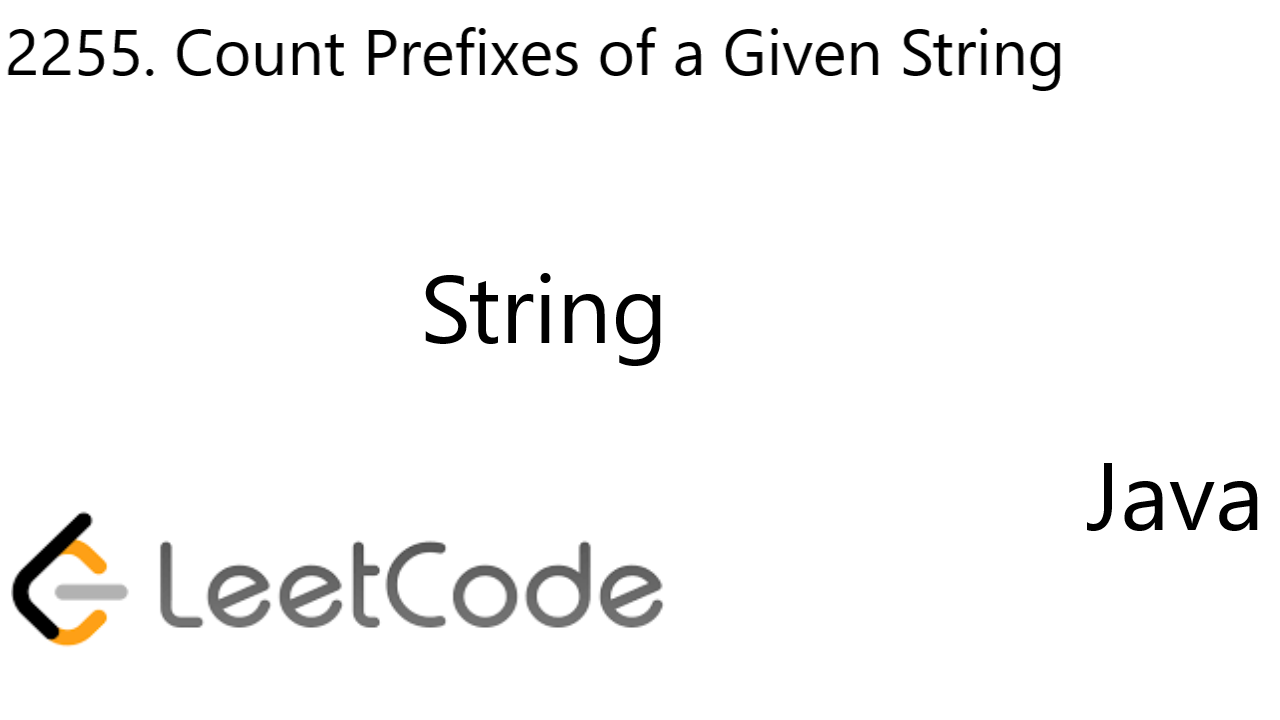
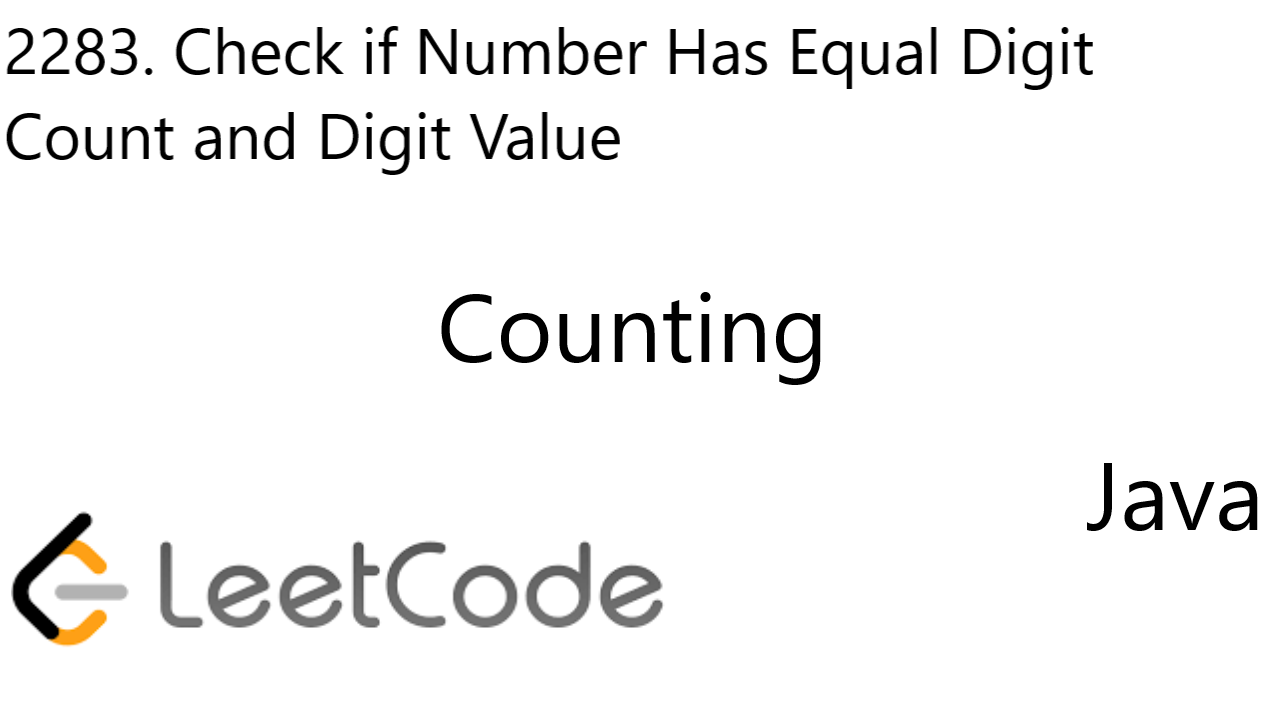
2264, 2283, 2287

Changed region(s): [[0.0, 0.0306, 0.875, 0.1222], [0.3125, 0.3667, 0.6562, 0.55], [0.0, 0.1528, 0.5, 0.2444]]

diff --git a/LeetCode/02264. Largest 3-Same-Digit Number in String/README.MD b/LeetCode/02264. Largest 3-Same-Digit Number in String/README.MD
@@ -1,0 +1,29 @@
+# String
+* Time Complexity: O(N)
+* Space Complexity: O(1)
+	* N as length of num
+```
+class Solution {
+    public String largestGoodInteger(String num) {
+        Character c = null;
+        for(int i = 1; i + 1 < num.length(); i++){
+            char c1 = num.charAt(i-1),
+                 c2 = num.charAt(i),
+                 c3 = num.charAt(i+1);
+            if(c1 == c2 && c2 == c3){
+                if(c == null || c2 > c){
+                    c = c2;
+                }
+            }
+        }
+        if(c == null){
+            return "";
+        }
+        StringBuilder sb = new StringBuilder();
+        for(int i = 0; i < 3; i++){
+            sb.append(c);
+        }
+        return sb.toString();
+    }
+}
+```

diff --git a/LeetCode/02287. Rearrange Characters to Make Target String/README.MD b/LeetCode/02287. Rearrange Characters to Make Target String/README.MD
@@ -1,0 +1,28 @@
+# Counting Array
+* Time Complexity: O(Min(S, T))
+* Space Complexity: O(26)
+	* S as length of s
+	* T as length of target
+```
+class Solution {
+    public int rearrangeCharacters(String s, String target) {
+        int[] targetCnt = new int[26];
+        for(char c: target.toCharArray()){
+            targetCnt[c-'a']++;
+        }
+        int[] sCnt = new int[26];
+        for(char c: s.toCharArray()){
+            sCnt[c-'a']++;
+        }
+        int res = Integer.MAX_VALUE;
+        for(int i = 0; i < 26; i++){
+            if(targetCnt[i] == 0){
+                continue;
+            }
+            int min = sCnt[i]/targetCnt[i];
+            res = Math.min(min, res);
+        }
+        return res;
+    }
+}
+```

diff --git a/LeetCode/02283. Check if Number Has Equal Digit Count and Digit Value/README.MD b/LeetCode/02283. Check if Number Has Equal Digit Count and Digit Value/README.MD
@@ -1,0 +1,21 @@
+# Counting
+* Time Complexity: O(N)
+* Space Complexity: O(1)
+	* N as length of num
+```
+class Solution {
+    public boolean digitCount(String num) {
+        int[] cnt = new int[10];
+        for(char c: num.toCharArray()){
+            cnt[c-'0']++;
+        }
+        for(int i = 0; i < num.length(); i++){
+            int digit = num.charAt(i)-'0';
+            if(cnt[i] != digit){
+                return false;
+            }
+        }
+        return true;
+    }
+}
+```
